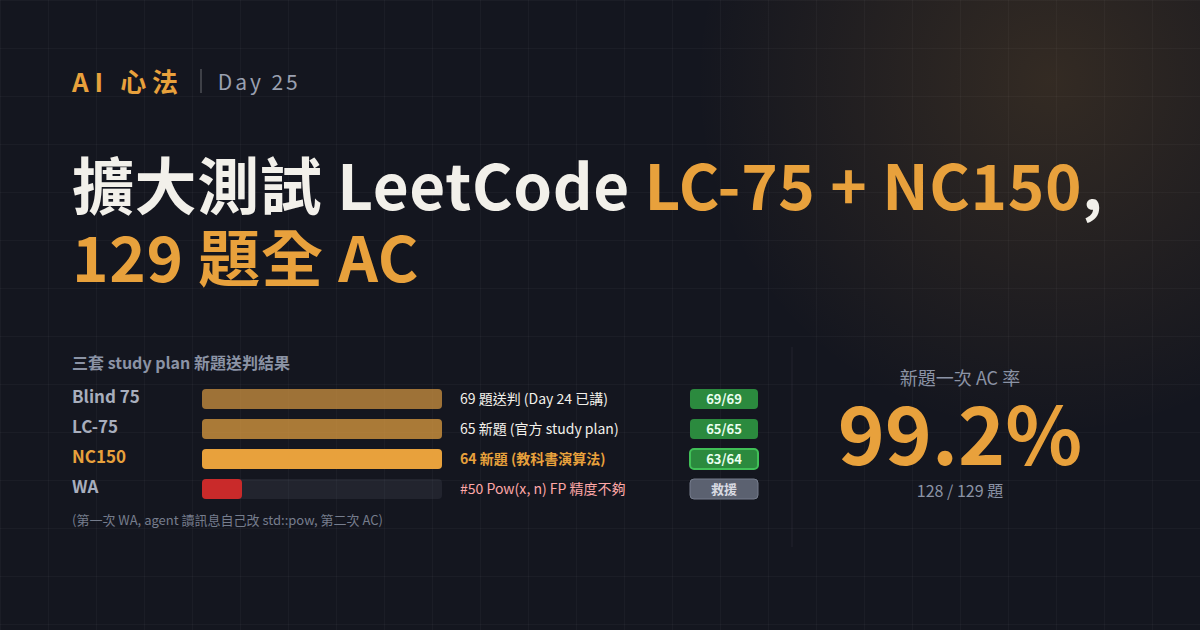
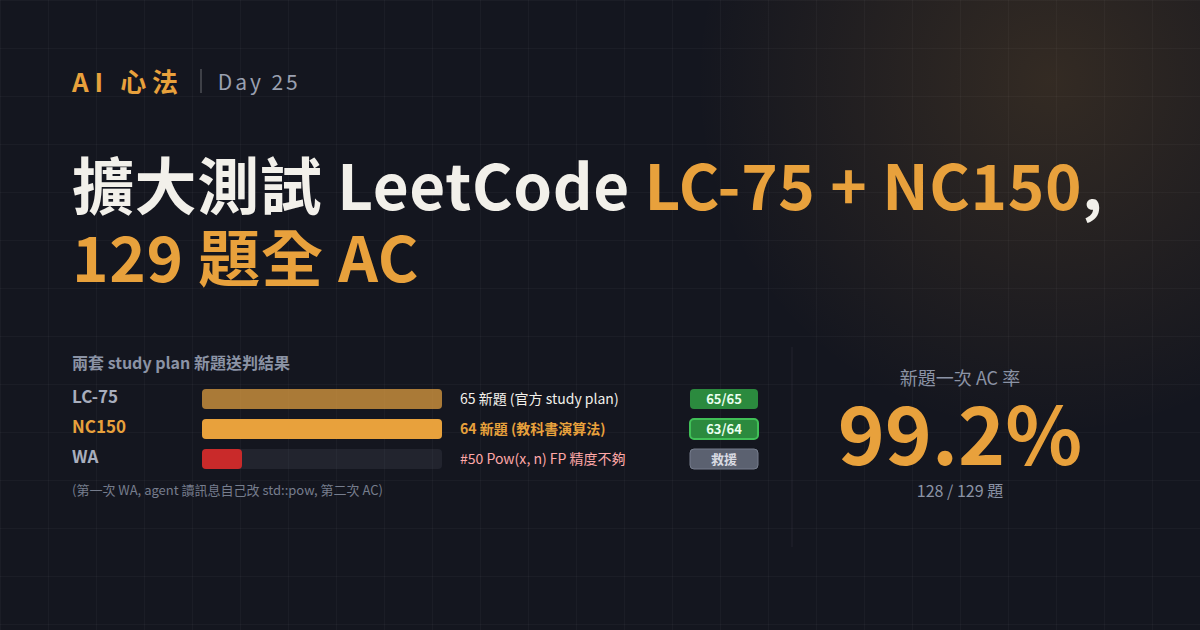
ironman: Day 25 cover 拿掉 Blind 75 列, 標頭改「兩套」
Day 25 是講 LC-75 + NC150 擴大測試, Blind 75 已於 Day 24 完整講過, 再出現只是佔空間. 拿掉 Blind 75 列, 標頭「三套」改「兩套」, 整個圖表往上收 30px.

Changed region(s): [[0.0617, 0.573, 0.5242, 0.8444], [0.555, 0.6635, 0.6475, 0.8143]]

diff --git a/05-notes/ironman/assets/cover-day25.html b/05-notes/ironman/assets/cover-day25.html
@@ -28,37 +28,30 @@ text{font-family:"Noto Sans CJK TC",sans-serif}
   <div class="chartwrap">
   <svg width="1056" height="210" viewBox="0 0 1056 210">
     <!-- 左半: 三套清單新題 bars -->
-    <text x="0" y="22" fill="#8b93a5" font-size="16" font-weight="700">三套 study plan 新題送判結果</text>
+    <text x="0" y="22" fill="#8b93a5" font-size="16" font-weight="700">兩套 study plan 新題送判結果</text>
 
-    <text x="0" y="56" fill="#a8aebd" font-size="17" font-weight="700">Blind 75</text>
+    <text x="0" y="56" fill="#a8aebd" font-size="17" font-weight="700">LC-75</text>
     <rect x="130" y="42" width="240" height="20" rx="4" fill="#5b617033"/>
-    <rect x="130" y="42" width="240" height="20" rx="4" fill="#e8a13ca0"/>
-    <text x="388" y="57" fill="#f2f0ea" font-size="14">69 題送判 (Day 24 已講)</text>
+    <rect x="130" y="42" width="240" height="20" rx="4" fill="#e8a13cb0"/>
+    <text x="388" y="57" fill="#f2f0ea" font-size="14">65 新題 (官方 study plan)</text>
     <rect x="618" y="42" width="68" height="20" rx="4" fill="#2b8a3e"/>
-    <text x="652" y="57" fill="#eafff0" font-size="13" font-weight="900" text-anchor="middle">69/69</text>
+    <text x="652" y="57" fill="#eafff0" font-size="13" font-weight="900" text-anchor="middle">65/65</text>
 
-    <text x="0" y="86" fill="#a8aebd" font-size="17" font-weight="700">LC-75</text>
+    <text x="0" y="86" fill="#e8a13c" font-size="17" font-weight="900">NC150</text>
     <rect x="130" y="72" width="240" height="20" rx="4" fill="#5b617033"/>
-    <rect x="130" y="72" width="240" height="20" rx="4" fill="#e8a13cb0"/>
-    <text x="388" y="87" fill="#f2f0ea" font-size="14">65 新題 (官方 study plan)</text>
-    <rect x="618" y="72" width="68" height="20" rx="4" fill="#2b8a3e"/>
-    <text x="652" y="87" fill="#eafff0" font-size="13" font-weight="900" text-anchor="middle">65/65</text>
+    <rect x="130" y="72" width="240" height="20" rx="4" fill="#e8a13c"/>
+    <text x="388" y="87" fill="#e8a13c" font-size="14" font-weight="700">64 新題 (教科書演算法)</text>
+    <rect x="618" y="72" width="68" height="20" rx="4" fill="#2b8a3e" stroke="#40c057" stroke-width="2"/>
+    <text x="652" y="87" fill="#eafff0" font-size="13" font-weight="900" text-anchor="middle">63/64</text>
 
-    <text x="0" y="116" fill="#e8a13c" font-size="17" font-weight="900">NC150</text>
+    <text x="0" y="116" fill="#a8aebd" font-size="17" font-weight="700">WA</text>
     <rect x="130" y="102" width="240" height="20" rx="4" fill="#5b617033"/>
-    <rect x="130" y="102" width="240" height="20" rx="4" fill="#e8a13c"/>
-    <text x="388" y="117" fill="#e8a13c" font-size="14" font-weight="700">64 新題 (教科書演算法)</text>
-    <rect x="618" y="102" width="68" height="20" rx="4" fill="#2b8a3e" stroke="#40c057" stroke-width="2"/>
-    <text x="652" y="117" fill="#eafff0" font-size="13" font-weight="900" text-anchor="middle">63/64</text>
+    <rect x="130" y="102" width="40" height="20" rx="4" fill="#c92a2a"/>
+    <text x="388" y="117" fill="#ffa8a8" font-size="14">#50 Pow(x, n) FP 精度不夠</text>
+    <rect x="618" y="102" width="68" height="20" rx="4" fill="#5b6170" stroke="#767d8d" stroke-width="1"/>
+    <text x="652" y="117" fill="#d8dae2" font-size="13" font-weight="900" text-anchor="middle">救援</text>
 
-    <text x="0" y="146" fill="#a8aebd" font-size="17" font-weight="700">WA</text>
-    <rect x="130" y="132" width="240" height="20" rx="4" fill="#5b617033"/>
-    <rect x="130" y="132" width="40" height="20" rx="4" fill="#c92a2a"/>
-    <text x="388" y="147" fill="#ffa8a8" font-size="14">#50 Pow(x, n) FP 精度不夠</text>
-    <rect x="618" y="132" width="68" height="20" rx="4" fill="#5b6170" stroke="#767d8d" stroke-width="1"/>
-    <text x="652" y="147" fill="#d8dae2" font-size="13" font-weight="900" text-anchor="middle">救援</text>
-
-    <text x="0" y="178" fill="#767d8d" font-size="13">(第一次 WA, agent 讀訊息自己改 std::pow, 第二次 AC)</text>
+    <text x="0" y="148" fill="#767d8d" font-size="13">(第一次 WA, agent 讀訊息自己改 std::pow, 第二次 AC)</text>
 
     <!-- Divider -->
     <line x1="720" y1="0" x2="720" y2="200" stroke="#5b617033" stroke-width="1"/>
